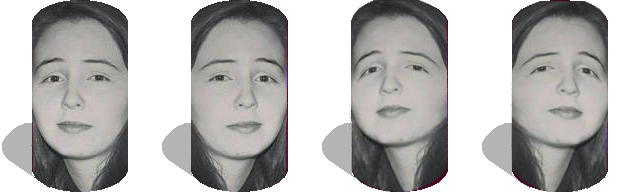
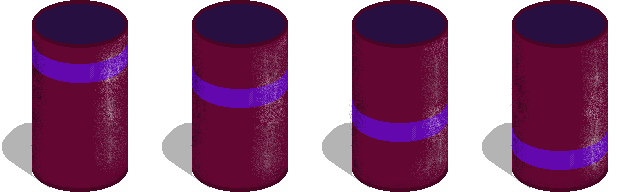
new script for zerg rush, texture for fireball, some fixes

diff --git a/Game/constants.h b/Game/constants.h
@@ -42,16 +42,16 @@ const unsigned char     kNumOfEnemyFrames = 1;
 const unsigned char     kNumOfEnemyStates = 1;
 const char*             kPathToEnemyTexture = "images/cub.png";
 const int               kRangeOfVision = 256;
-const time_t            kEnemyCoolDown = 500;
+const time_t            kEnemyCoolDown = 250;
 const int               kEnemyDamage = 5;
 const int               kEnemyHp = 20;
 const unsigned char     kEnemyWidth = 64;
 
 //!bullet
-const char*             kPathToBulletTexture = "images/bullet.png";
+const char*             kPathToBulletTexture = "images/fireball.png";
 const int               kBulletVelocity = 30;
-const LinearVector<int> kStandartSpriteSizeOfBullet = LinearVector<int>(16,16);
-const unsigned char     kNumOfBulletFrames = 1;
+const LinearVector<int> kStandartSpriteSizeOfBullet = LinearVector<int>(96,96);
+const unsigned char     kNumOfBulletFrames = 4;
 const unsigned char     kNumOfBulletStates = 1;
 const time_t            kShootCoolDown = 400;
 

diff --git a/Game/GameObjects.h b/Game/GameObjects.h
@@ -474,10 +474,13 @@ class Bullet: public GameObject
     {
       GameObject::DecreaseHp(damage);
     }
-    virtual void NextFrame(char step = 1)
+    virtual void NextFrame(char step = 1);
+  /*  virtual void NextFrame(char step = 1)
     {
       GameObject::NextFrame(step);
-    }
+    }*/
+  private:
+    bool next_sprite_right = true;
 };
 
 Bullet::Bullet(RenderWindow& window, std::vector<GameObject*>& pMap, LinearVector<int> spriteSize, Texture& texture,
@@ -561,6 +564,27 @@ void Bullet::Move()
     ref_coords_.y_ = ref_coords_.y_ + velocity_.y_;
 }
 
+void Bullet::NextFrame(char step)
+{
+  if(next_sprite_right){
+    if(GetFrame() == GetNumOfFrames()-1){
+      next_sprite_right = false;
+      GameObject::NextFrame(-1);
+    }
+    else{
+      GameObject::NextFrame(1);
+    }
+  }
+  else {
+    if(GetFrame() == 0){
+      next_sprite_right = true;
+      GameObject::NextFrame(1);
+    }
+    else{
+      GameObject::NextFrame(-1);
+    }
+  }
+}
 
 
 #endif

diff --git a/Translator/translator/main.cpp b/Translator/translator/main.cpp
@@ -17,9 +17,9 @@
 
 int main(int argc, char *argv[])
 {
-  std::string from("pursuit80.alu");
+  std::string from("hotpursuit.alu");
   from = string("..\\..\\source_code\\") + from;
-  std::string to("pursuit80.bin");
+  std::string to("hotpursuit.bin");
   to = string("..\\..\\bin_code\\") + to;
   cout << "started" << endl;
   print("/#\n", from);
